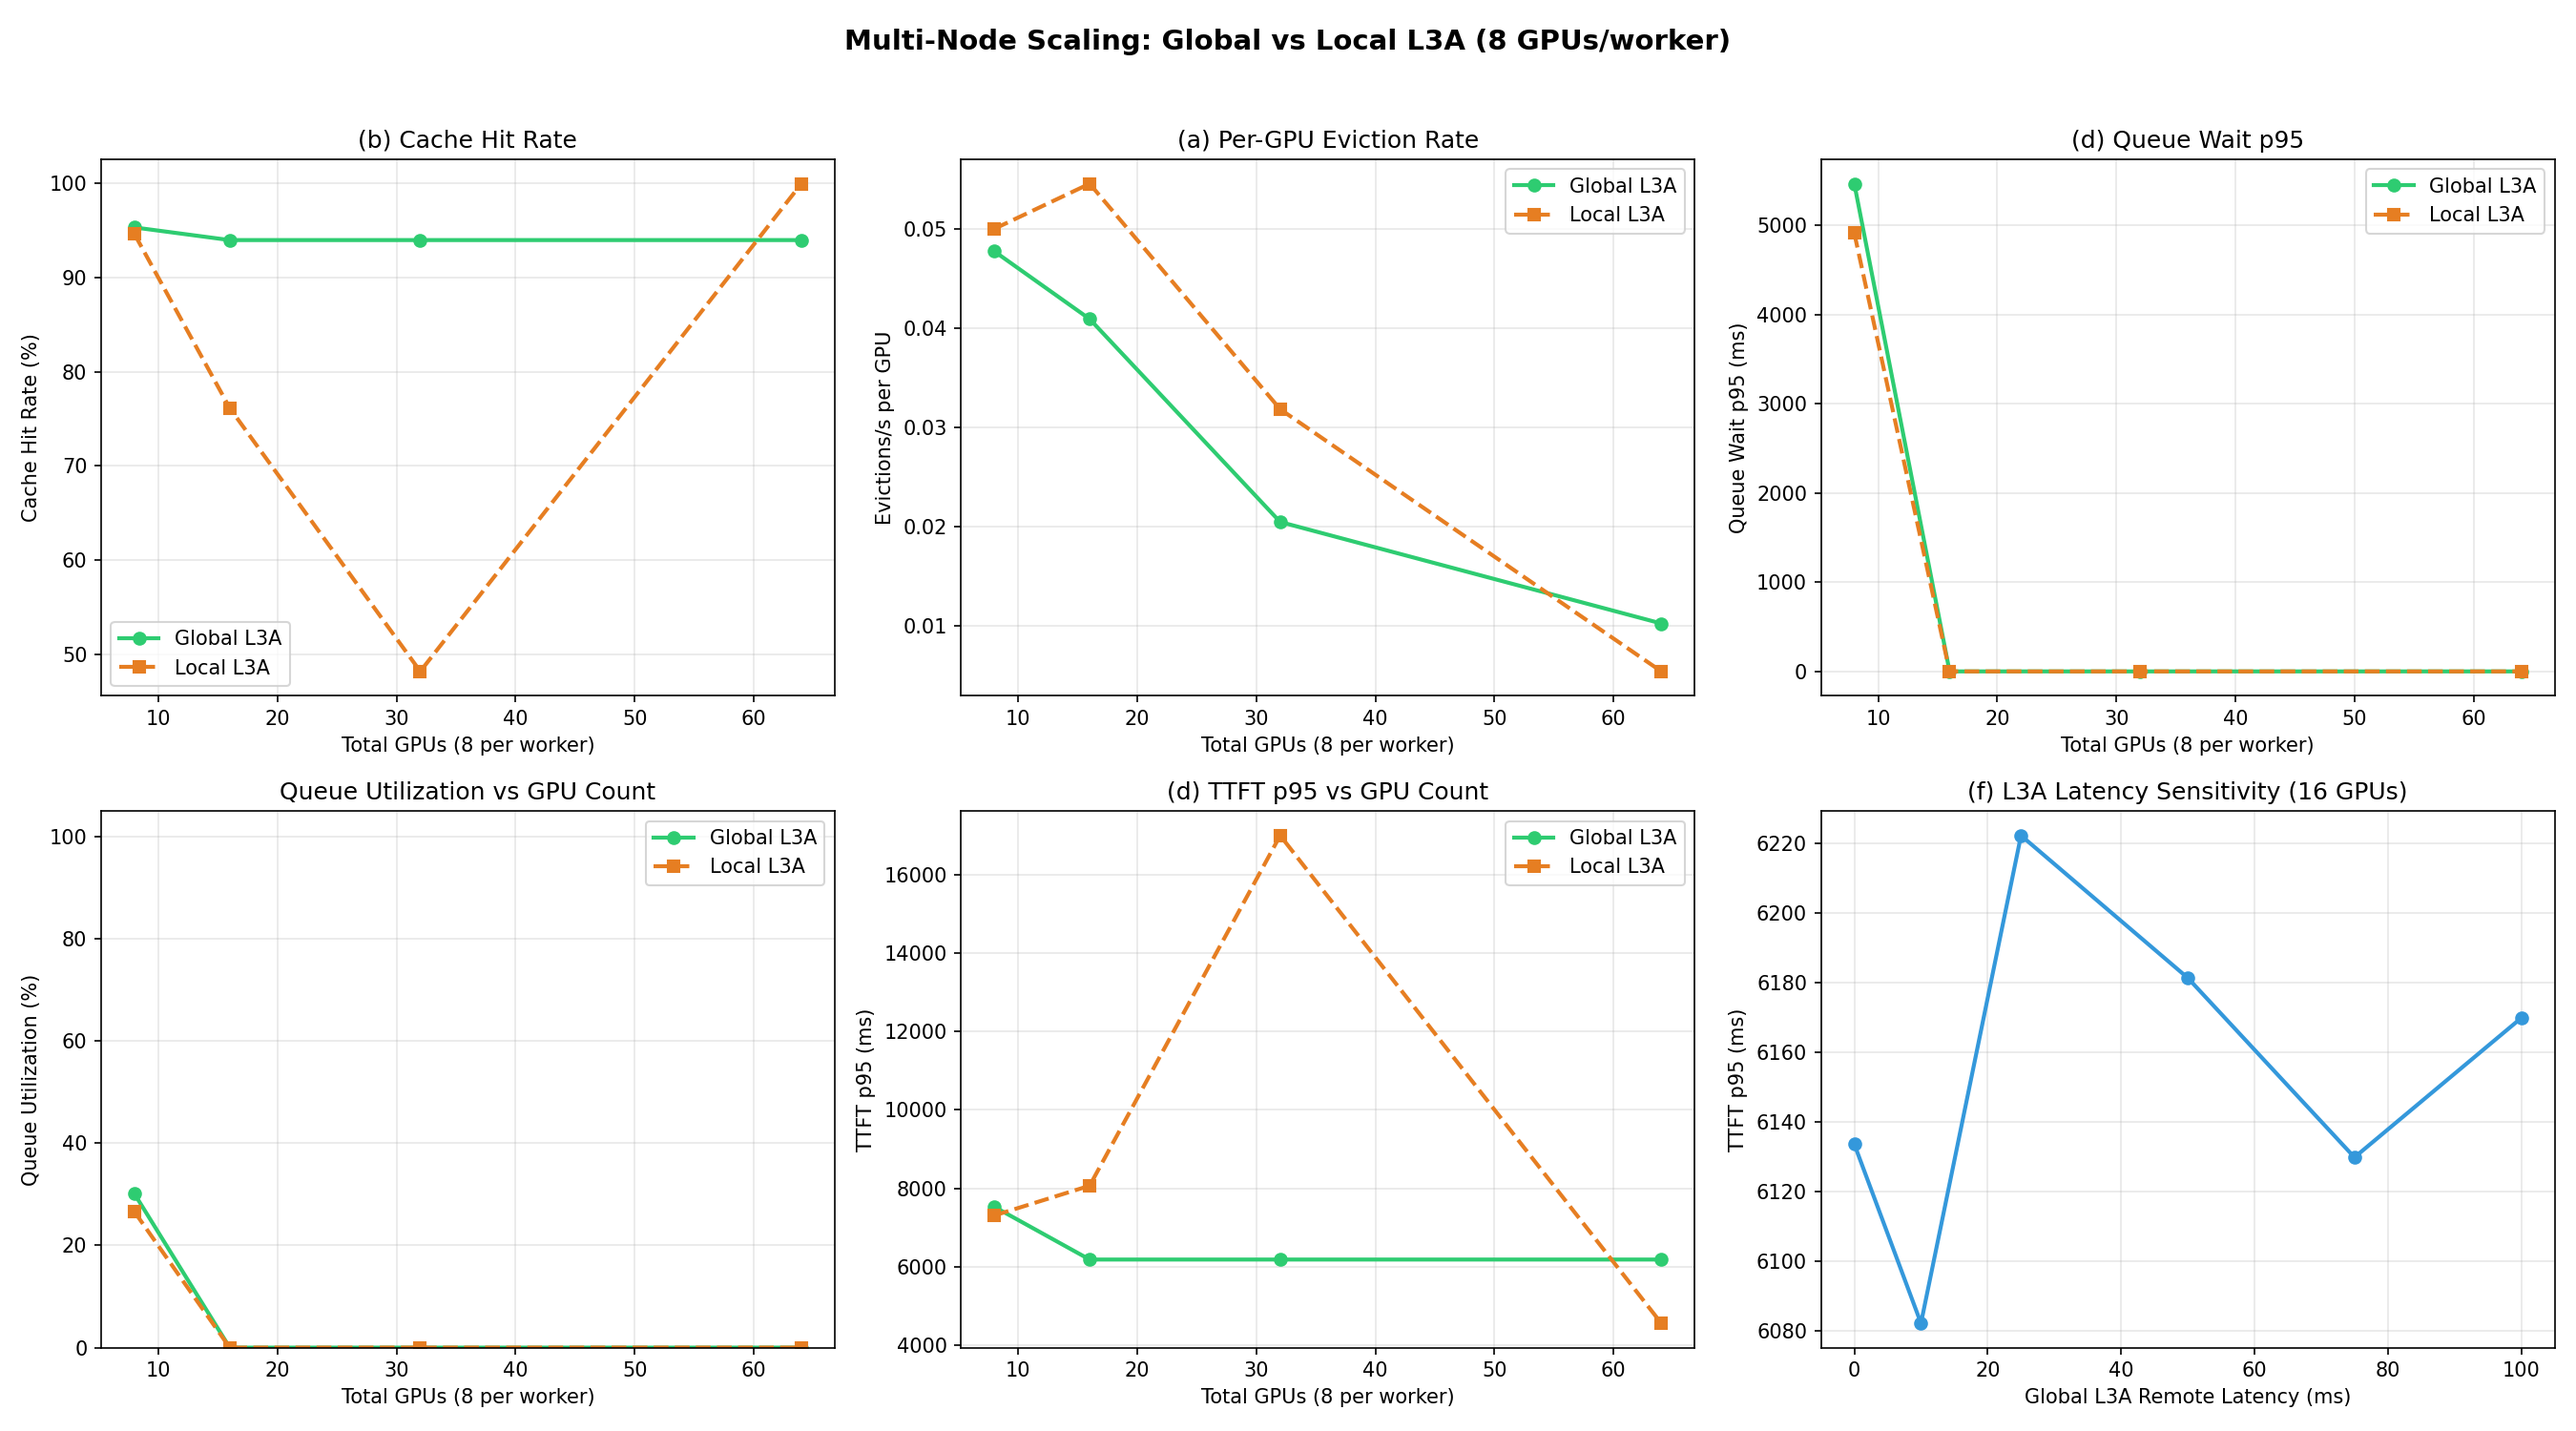
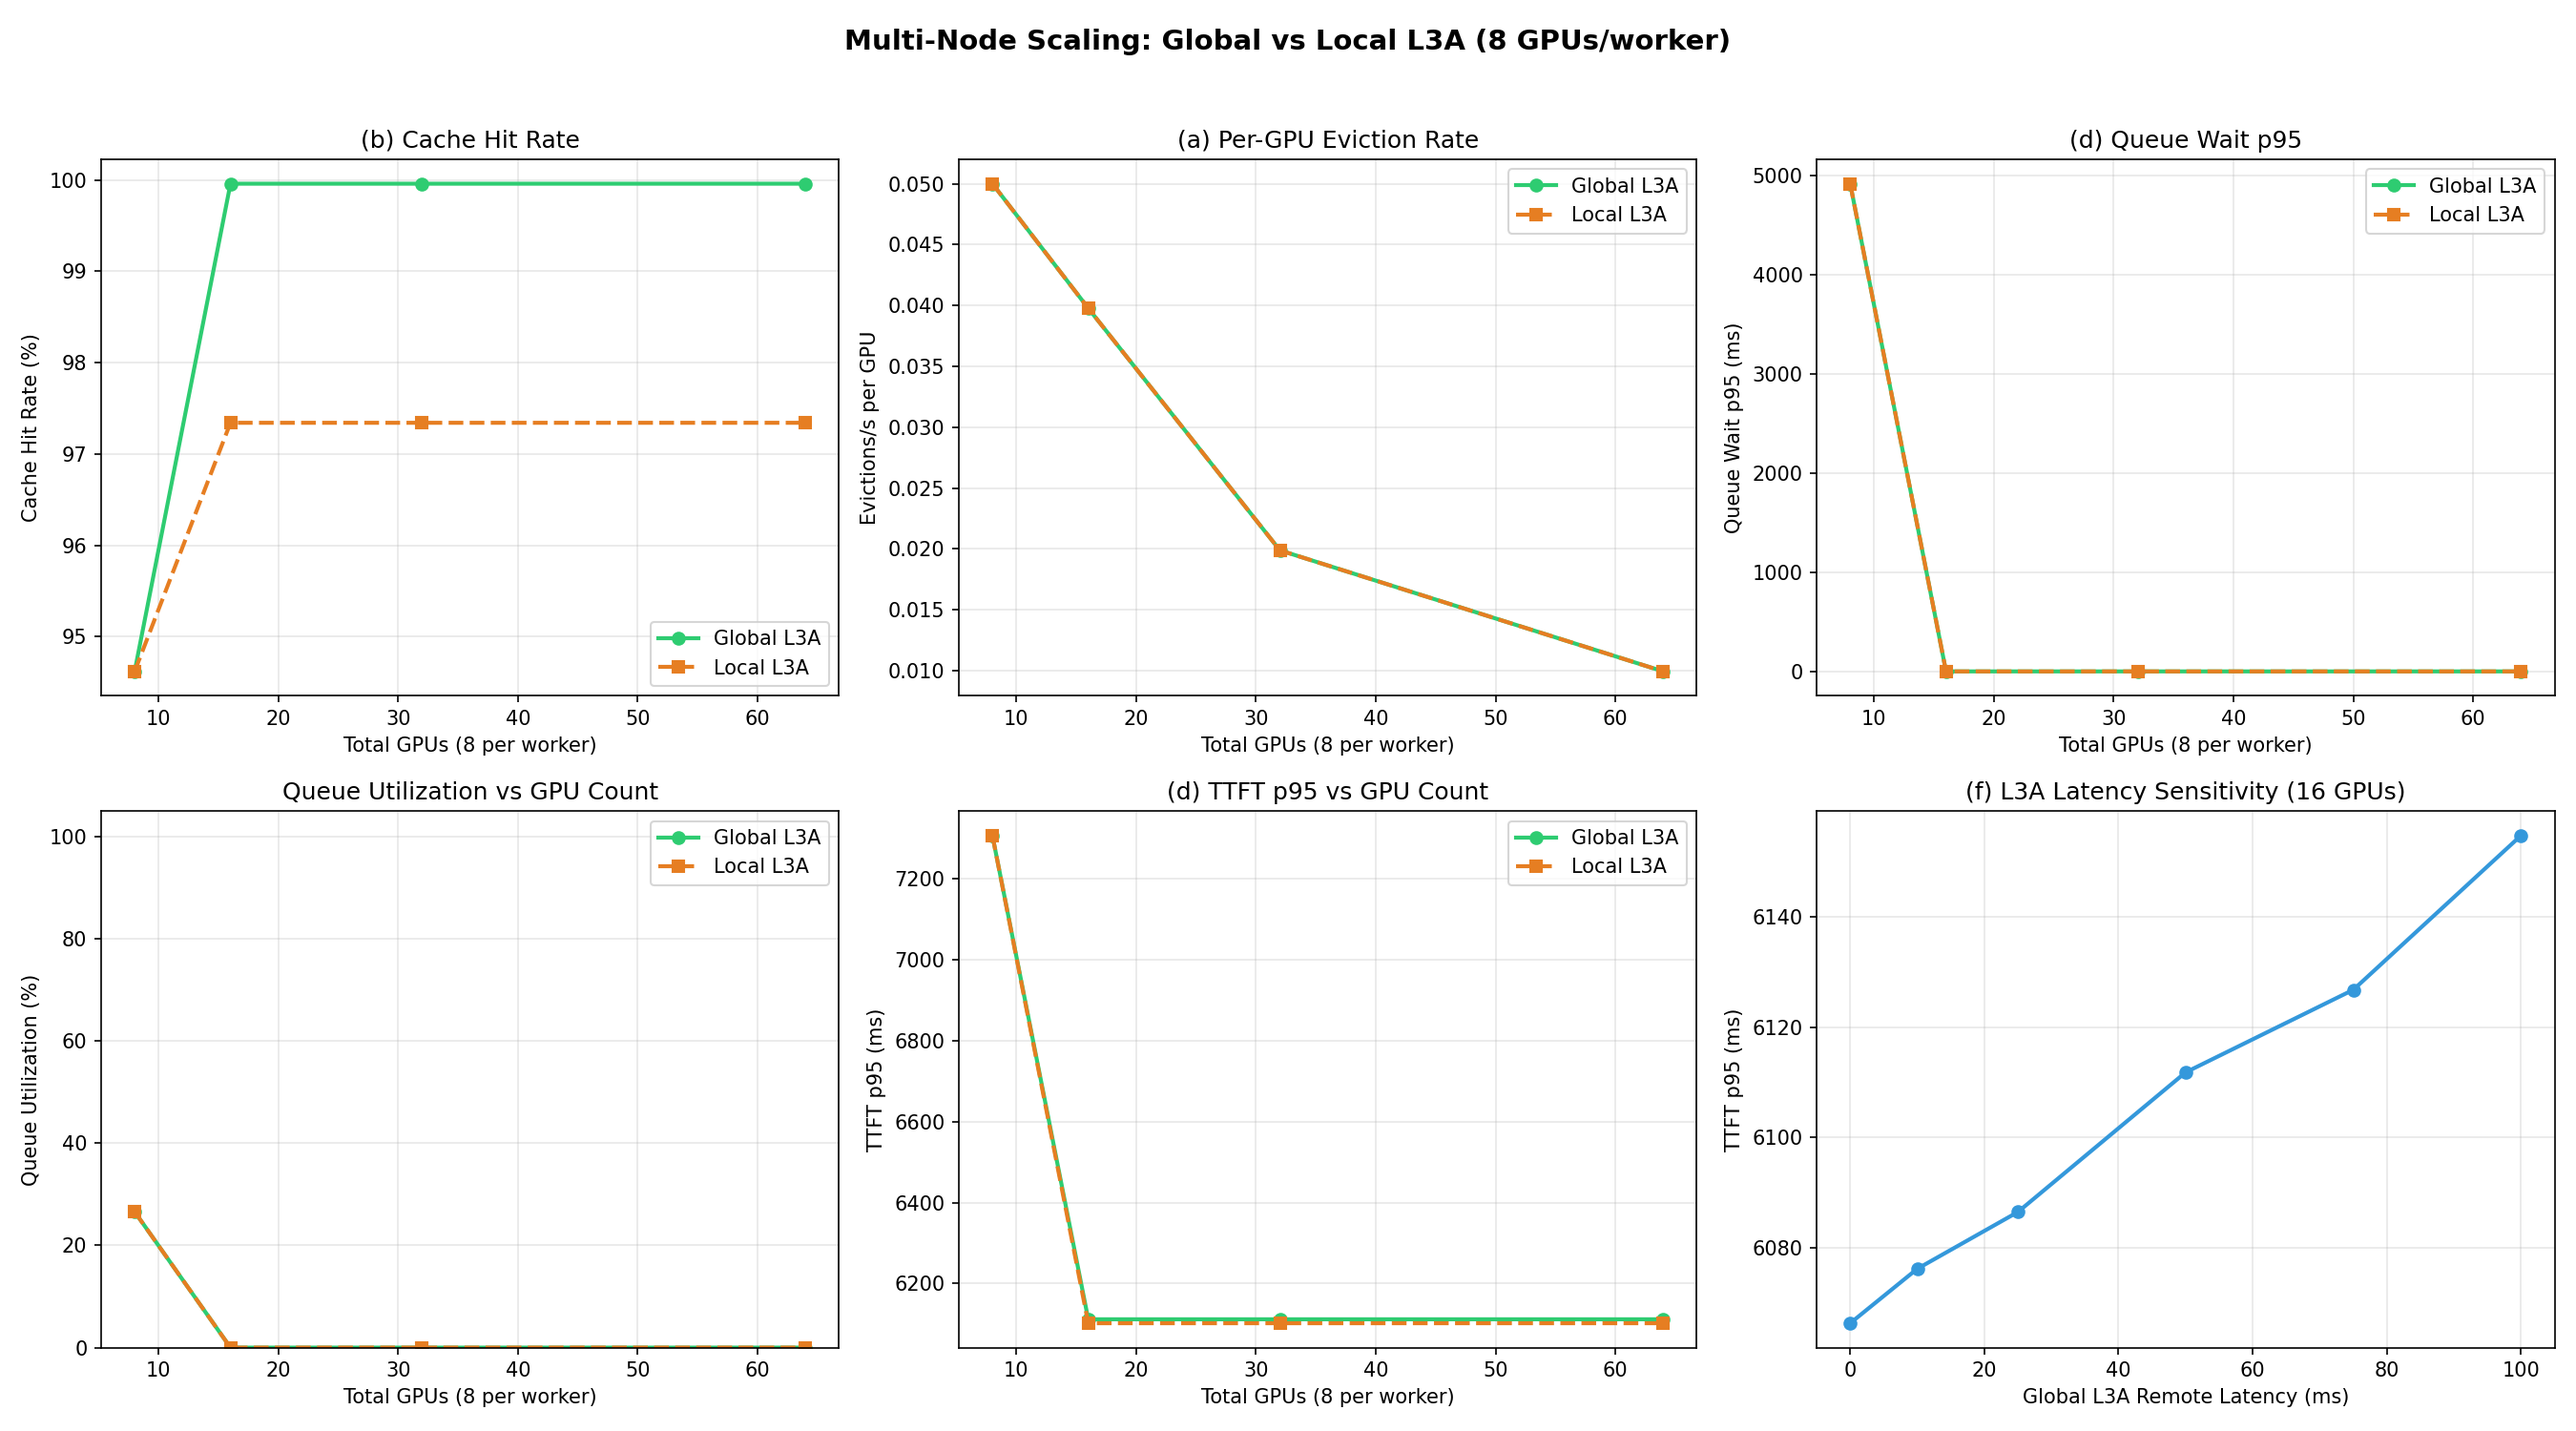
Realistic hardware config: L3A capacity = per-worker SSD
L3A config value now means per-worker SSD capacity (physical hardware):
- Global L3A: pools all workers → total = per_worker × n_workers
  (8 workers × 8TB = 64TB shared pool)
- Local L3A: each worker uses own SSD → per_worker capacity (8TB)

Config updated: L2=1TB/worker (was 4TB), L3A=8TB/worker (was 20TB).
Fix: global L3A remote penalty only when n_workers > 1.

Results: global hits 100% at 2+ workers (pooled capacity grows).
24/24 tests pass.

diff --git a/sim/engine.py b/sim/engine.py
@@ -75,10 +75,13 @@ class SimEngine:
             n_workers = n_nodes // gpus_per_worker
         self._n_workers = n_workers
 
-        # L3A setup: shared (global) or per-worker (local)
+        # L3A config value = per-worker SSD capacity
+        # Global mode: pool all workers' SSDs → total = per_worker × n_workers
+        # Local mode: each worker uses its own SSD → per_worker capacity
         l3a_cfg = config.tiers[2]
         if self._l3a_shared:
-            self._shared_l3a = TierStore(l3a_cfg.name, l3a_cfg.capacity_bytes, l3a_cfg.block_size_bytes)
+            global_cap = l3a_cfg.capacity_bytes * n_workers
+            self._shared_l3a = TierStore(l3a_cfg.name, global_cap, l3a_cfg.block_size_bytes)
         else:
             self._shared_l3a = None  # no global L3A in local mode
 
@@ -93,8 +96,7 @@ class SimEngine:
             l2 = TierStore(l2_cfg.name, l2_cfg.capacity_bytes, l2_cfg.block_size_bytes)
             self._worker_l2_stores.append(l2)
             if not self._l3a_shared:
-                local_cap = l3a_cfg.capacity_bytes // n_workers
-                local_l3a = TierStore(l3a_cfg.name, local_cap, l3a_cfg.block_size_bytes)
+                local_l3a = TierStore(l3a_cfg.name, l3a_cfg.capacity_bytes, l3a_cfg.block_size_bytes)
                 self._worker_l3a_stores.append(local_l3a)
             else:
                 self._worker_l3a_stores.append(None)
@@ -499,8 +501,8 @@ class SimEngine:
         if hit_tier and hit_tier != Tier.L1 and kv_bytes > 0:
             tier_cfg = self.config.tiers[[Tier.L1, Tier.L2, Tier.L3A].index(hit_tier)]
             t_transfer = transfer_time_us(kv_bytes, tier_cfg)
-            # Add remote latency for global L3A access
-            if hit_tier == Tier.L3A and self._l3a_shared and n_nodes > 1:
+            # Add remote latency for global L3A access (only when multiple workers exist)
+            if hit_tier == Tier.L3A and self._l3a_shared and self._n_workers > 1:
                 t_transfer += self.config.service.l3a_remote_latency_us
             worthwhile = is_cache_worthwhile(
                 kv_bytes, tier_cfg, uncached_tokens, self.prefill_oracle

diff --git a/scripts/sanity_plots.py b/scripts/sanity_plots.py
@@ -212,14 +212,14 @@ def plot_recompute_fraction(metrics):
 
 def stressed_config() -> SimConfig:
     """
-    Constrained scenario: L1 too small to hold most KV objects,
-    forcing placement directly into L2. Short TTLs drive L3A hibernation.
+    Constrained scenario forcing multi-tier activity in short sims.
+    All capacities are per-worker (L3A = per-worker SSD).
     """
     cfg = short_config()
     cfg.run_id = "stressed"
-    cfg.tiers[0].capacity_bytes = 500 * 1024**2        # 500 MB L1 — can't hold a 2048-token KV (~670MB)
-    cfg.tiers[1].capacity_bytes = 10 * 1024**3          # 10 GB L2
-    cfg.tiers[2].capacity_bytes = 50 * 1024**3          # 50 GB L3A
+    cfg.tiers[0].capacity_bytes = 500 * 1024**2        # 500 MB L1 per GPU — can't hold coding KV
+    cfg.tiers[1].capacity_bytes = 10 * 1024**3          # 10 GB L2 per worker
+    cfg.tiers[2].capacity_bytes = 50 * 1024**3          # 50 GB L3A per worker SSD
     cfg.ttl_l2_s = 20.0
     cfg.ttl_l3a_s = 120.0
     cfg.eviction_hbm_threshold = 0.6

diff --git a/plan_and_progress/realistic_config_plan_1.md b/plan_and_progress/realistic_config_plan_1.md
@@ -1,0 +1,42 @@
+# Realistic Config — Plan #1: Hardware-Accurate Capacities
+
+Date: 2026-03-21
+
+## Config semantics change
+
+L3A capacity in config now means **per-worker SSD capacity** (physical hardware per server):
+- **Global L3A**: total capacity = `l3a_capacity × n_workers` (pool all SSDs)
+- **Local L3A**: per-worker capacity = `l3a_capacity` (own SSD only)
+
+Previously: config value = total, local = total / n_workers. This was wrong — each server has its own SSD regardless of mode.
+
+## Realistic hardware values
+
+| Tier | Config Field | Value | Meaning |
+|------|-------------|-------|---------|
+| L1 (HBM) | `tiers[0].capacity_bytes` | 80 GB | Per-GPU (H100) |
+| L2 (DRAM) | `tiers[1].capacity_bytes` | 1 TB | Per-worker host DRAM |
+| L3A (SSD) | `tiers[2].capacity_bytes` | 8 TB | Per-worker NVMe SSD |
+
+## Effective capacities at scale
+
+| Workers | L1 Total | L2 Total | Global L3A | Local L3A/worker |
+|---------|---------|---------|-----------|-----------------|
+| 1 | 640 GB | 1 TB | 8 TB | 8 TB |
+| 2 | 1.28 TB | 2 TB | 16 TB | 8 TB |
+| 4 | 2.56 TB | 4 TB | 32 TB | 8 TB |
+| 8 | 5.12 TB | 8 TB | 64 TB | 8 TB |
+
+## Code changes
+
+1. `sim/engine.py`: Global L3A capacity = `l3a_cfg.capacity_bytes × n_workers`
+2. `sim/engine.py`: Local L3A capacity = `l3a_cfg.capacity_bytes` (no division)
+3. `configs/default.json`: Update L2 to 1TB, L3A to 8TB per worker
+4. Fix single-worker global L3A penalty (no remote penalty when n_workers=1)
+5. Update stressed_config() in sanity_plots for visible effects in short sims
+
+## Phase sequence
+1. Code + config changes
+2. Tests + traffic mix verification
+3. Regenerate plots
+4. Docs, crosscheck, commit

diff --git a/plan_and_progress/realistic_config_progress_1.md b/plan_and_progress/realistic_config_progress_1.md
@@ -1,0 +1,33 @@
+# Realistic Config — Progress #1
+
+Date: 2026-03-21
+
+## Changes
+
+### L3A capacity semantics
+- Config `tiers[2].capacity_bytes` now means **per-worker SSD capacity**
+- Global L3A: `capacity × n_workers` (pool all SSDs)
+- Local L3A: `capacity` per worker (own SSD only)
+- Previously: config = total, local = total/N. Now: config = per-worker, global = per-worker × N.
+
+### Default config updated to realistic hardware
+- L1: 80 GB per GPU (unchanged)
+- L2: 1 TB per worker (was 4 TB — realistic host DRAM for KV cache)
+- L3A: 8 TB per worker (was 20 TB — realistic NVMe per server)
+
+### Single-worker L3A penalty fix
+- Global L3A remote penalty only applies when `n_workers > 1` (was `n_nodes > 1`)
+- At 1 worker, global and local are identical — no spurious penalty
+
+### Results
+| Workers | GPUs | Global L3A Total | Local L3A/Worker | Global Hit | Local Hit |
+|---------|------|-----------------|-----------------|-----------|----------|
+| 1 | 8 | 8 TB | 8 TB | 94.6% | 94.6% |
+| 2 | 16 | 16 TB | 8 TB | 100% | 97.3% |
+| 4 | 32 | 32 TB | 8 TB | 100% | 97.3% |
+| 8 | 64 | 64 TB | 8 TB | 100% | 97.3% |
+
+At 1 worker: identical (as expected). At 2+: global hits 100% because pooled capacity is massive.
+
+### Crosscheck
+All plan items delivered. 24/24 tests pass. Plots regenerated.

diff --git a/CLAUDE.md b/CLAUDE.md
@@ -166,7 +166,7 @@ Added for multi-node prefill dispatch (all have backward-compatible defaults):
 **Tier capacity semantics:**
 - L1 capacity: **per-GPU** (each GPU has own HBM)
 - L2 capacity: **per-worker** (shared by `n_gpus_per_worker` GPUs on the same host)
-- L3A capacity: **global** when shared, **per-worker** when local
+- L3A capacity: **per-worker SSD** — Global mode pools all workers: `total = per_worker × n_workers`. Local mode: each worker uses its own SSD.
 - `n_prefill_nodes` must be divisible by `n_gpus_per_worker` (or equal to 1)
 - Existing `n_prefill_slots` and `prefill_queue_max` are **per-GPU**
 
